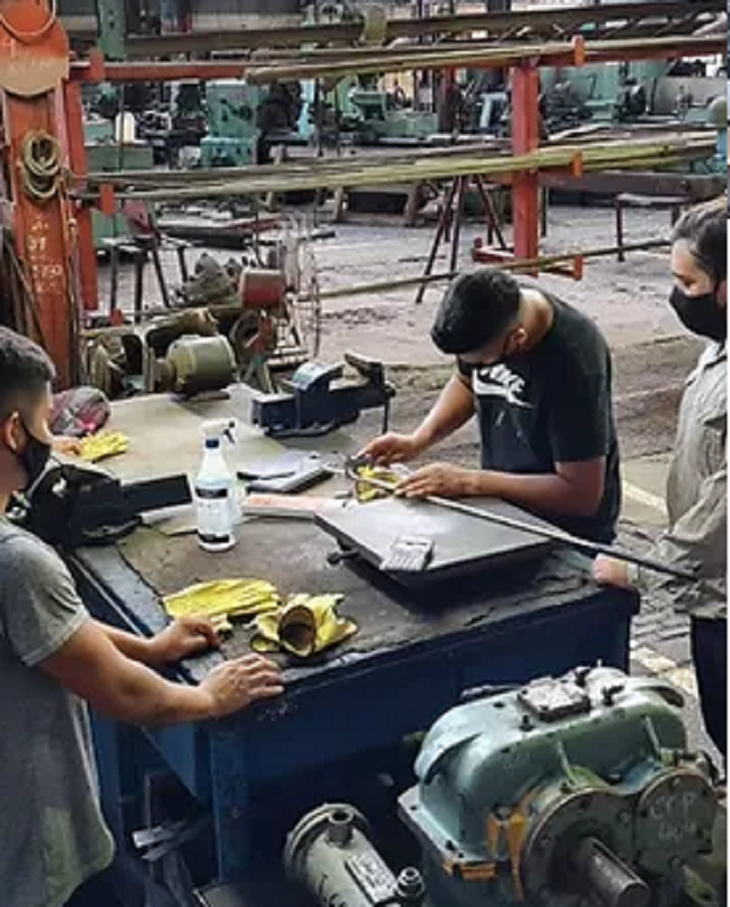
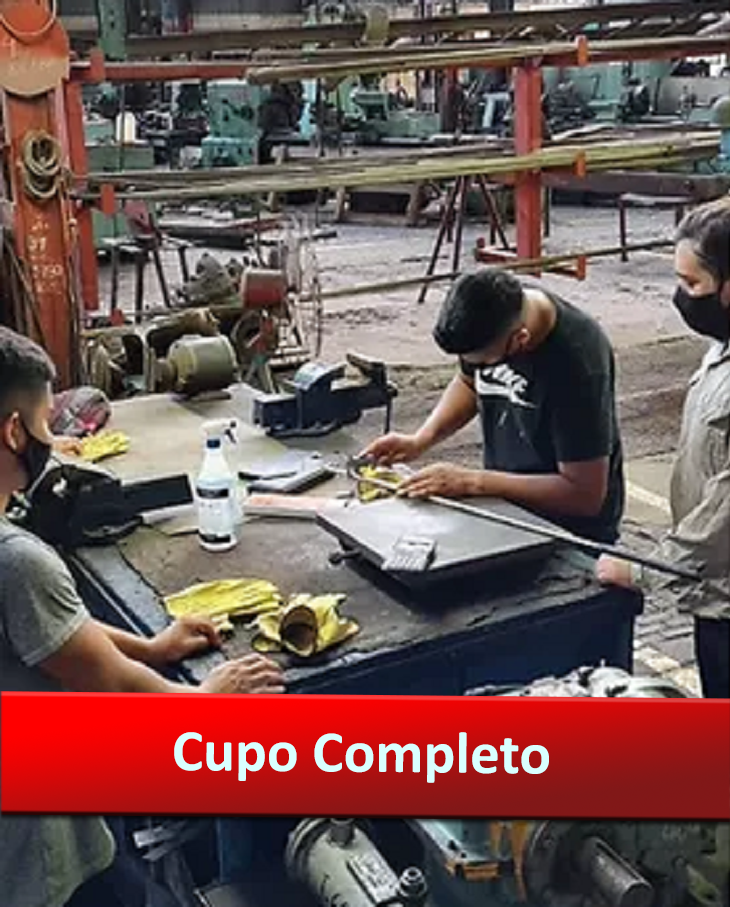
cupos completos

diff --git a/herreria.html b/herreria.html
@@ -84,7 +84,7 @@
             <li>- Todos los cursos son <strong>TOTALMENTE GRATUITOS</strong></li>
         </ul><br>
 
-        <a href="https://forms.gle/T45rkY6fuH6gwfc7A" target="_blank"><button class="mas_info">Inscripción</button></a><br>
+        <a href="#"><button class="mas_info">Cupo Completo</button></a><br> 
     </div>
 </body>
 

diff --git a/canista.html b/canista.html
@@ -80,7 +80,7 @@
             <li>- Todos los cursos son <strong>TOTALMENTE GRATUITOS</strong></li>
         </ul><br>
 
-        <a href="https://forms.gle/8FhshHTyWzSRJP3w7" target="_blank"><button class="mas_info">Inscripción</button></a><br>
+        <a href="#"><button class="mas_info">Cupo Completo</button></a><br>
     </div>
 </body>
 

diff --git a/marketing.html b/marketing.html
@@ -97,7 +97,7 @@
             <li>- Todos los cursos son <strong>TOTALMENTE GRATUITOS</strong></li>
         </ul><br>
 
-        <a href="https://forms.gle/fPVsW7HjJBU4Cic6A" target="_blank"><button class="mas_info">Inscripción</button></a><br>
+        <a href="#"><button class="mas_info">Cupo Completo</button></a><br>
     </div>
 </body>
 

diff --git a/mecanica.html b/mecanica.html
@@ -83,7 +83,7 @@
             <li>- Todos los cursos son <strong>TOTALMENTE GRATUITOS</strong></li>
         </ul><br>
 
-        <a href="https://forms.gle/xvYrSyZwrYLKzsBU9" target="_blank"><button class="mas_info">Inscripción</button></a><br>
+        <a href="#"><button class="mas_info">Cupo Completo</button></a><br>
     </div>
 </body>
 

diff --git a/soldadura.html b/soldadura.html
@@ -81,7 +81,7 @@
             <li>- Todos los cursos son <strong>TOTALMENTE GRATUITOS</strong></li>
         </ul><br>
 
-        <a href="https://forms.gle/dour4Y8y61S4pSaF8" target="_blank"><button class="mas_info">Inscripción</button></a><br>
+        <a href="#"><button class="mas_info">Cupo Completo</button></a><br>
     </div>
 </body>
 
